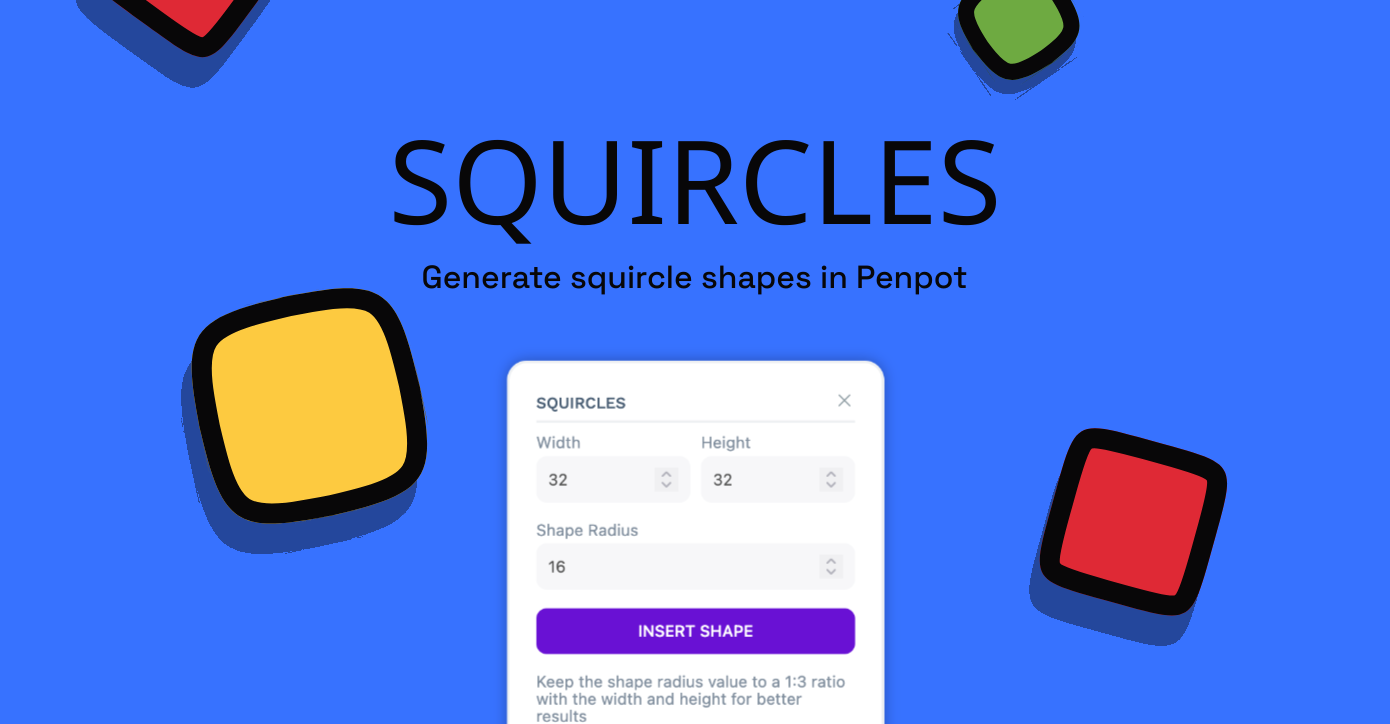
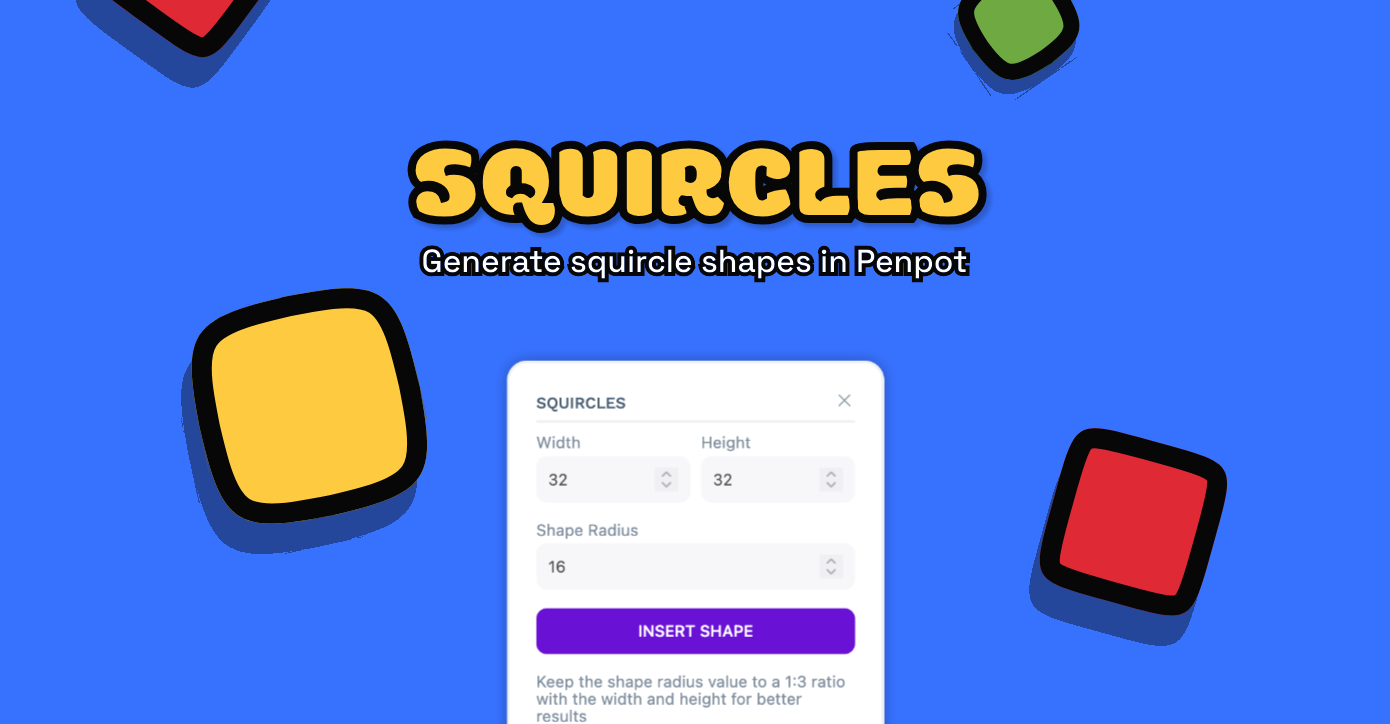
Updated graphics, new function

Changed region(s): [[0.2784, 0.1823, 0.7424, 0.4254]]

diff --git a/src/main.ts b/src/main.ts
@@ -4,21 +4,46 @@ import "./style.css";
 const searchParams = new URLSearchParams(window.location.search);
 document.body.dataset.theme = searchParams.get("theme") ?? "light";
 
+const widthInput = document.getElementById("width") as HTMLInputElement;
+const heightInput = document.getElementById("height") as HTMLInputElement;
+const radiusInput = document.getElementById("radius") as HTMLInputElement;
+
+const resultElement = document.getElementById(
+  "radius-recommendation",
+) as HTMLElement;
+
+// Function to calculate and display result
+const calculateResult = () => {
+  const width = Math.abs(Math.floor(parseInt(widthInput.value)) || 0);
+  const height = Math.abs(Math.floor(parseInt(heightInput.value)) || 0);
+
+  const minValue = Math.min(width, height);
+  const radiusValue = minValue - minValue / 3;
+  // Floor final result to ensure int
+  const recommendedRadius = Math.floor(radiusValue);
+
+  resultElement.textContent = `Recommended radius: ${recommendedRadius}px`;
+};
+
+// Add input event listeners
+widthInput.addEventListener("input", calculateResult);
+heightInput.addEventListener("input", calculateResult);
+
 document
   .querySelector("[data-handler='insert-shape']")
   ?.addEventListener("click", () => {
-    const radius = document.getElementById("radius") as HTMLInputElement;
+    /*const radius = document.getElementById("radius") as HTMLInputElement;
 
     const width = document.getElementById("width") as HTMLInputElement;
-    const height = document.getElementById("height") as HTMLInputElement;
+    const height = document.getElementById("height") as HTMLInputElement;*/
 
     // send message to plugin.ts
     parent.postMessage(
       {
         action: "insert-shape",
-        radius: radius.value,
-        width: width.value,
-        height: height.value,
+        radius: radiusInput.value,
+        width: widthInput.value,
+        height: heightInput.value,
       },
       "*",
     );

diff --git a/index.html b/index.html
@@ -17,7 +17,7 @@
                         type="number"
                         placeholder="Width"
                         id="width"
-                        value="32"
+                        value="64"
                     />
                 </label>
 
@@ -29,7 +29,7 @@
                         type="number"
                         placeholder="Height"
                         id="height"
-                        value="32"
+                        value="64"
                     />
                 </label>
             </section>
@@ -42,9 +42,11 @@
                     type="number"
                     placeholder="Border Radius"
                     id="radius"
-                    value="16"
+                    value="32"
                 />
             </label>
+
+            <label id="radius-recommendation">Recommended radius: 32px</label>
 
             <section style="gap: 4px">
                 <button
@@ -52,7 +54,7 @@
                     data-appearance="primary"
                     data-handler="insert-shape"
                 >
-                    Insert Shape
+                    Insert Squircle
                 </button>
 
                 <!--<button
@@ -63,11 +65,6 @@
                     Copy SVG
                     </button>-->
             </section>
-
-            <label>
-                Keep the shape radius value to a 1:3 ratio with the width and
-                height for better results
-            </label>
         </main>
 
         <script type="module" src="/src/main.ts"></script>

diff --git a/src/plugin.ts b/src/plugin.ts
@@ -1,6 +1,6 @@
 penpot.ui.open("SQUIRCLES", `?theme=${penpot.theme}`, {
   width: 260,
-  height: 300,
+  height: 260,
 });
 
 function createSquircleSVG(

diff --git a/vite.config.ts b/vite.config.ts
@@ -19,6 +19,6 @@ export default defineConfig({
     },
   },
   preview: {
-    port: 4400,
+    port: 4440,
   },
 });
